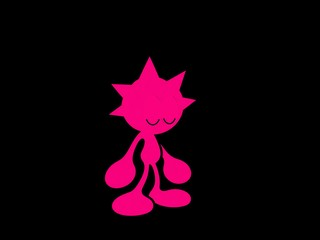
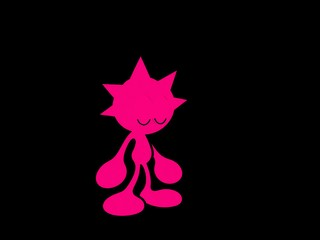
Shift the idle character a touch further left.
Generated with [Devin](https://devin.ai)

Changed region(s): [[0.2812, 0.2333, 0.625, 0.9042]]

diff --git a/friend/gizmo_friend/static/oddity-device.css b/friend/gizmo_friend/static/oddity-device.css
@@ -18,7 +18,7 @@ main{padding:0 16px}.simulator{width:min(650px,100%,calc((100svh - 180px)*1145/1
 .device-talk:active{cursor:grabbing}.device-talk:focus-visible{outline:2px solid #ffb5da;outline-offset:4px}
 .device-talk:before{content:'';position:absolute;inset:-10% -55% -10% -90%}
 .device-up:before,.device-down:before,.device-select:before{content:'';position:absolute;inset:0 -12px 0 -3px}
-.device .friend{position:absolute;left:31%;top:30%;width:34%;height:50%;display:grid;place-items:center;pointer-events:none}.device .friend img{height:100%;width:auto;object-fit:contain}
+.device .friend{position:absolute;left:27%;top:30%;width:34%;height:50%;display:grid;place-items:center;pointer-events:none}.device .friend img{height:100%;width:auto;object-fit:contain}
 .device .caption,.device .stage:not(.has-scene) .caption{font-size:3.6cqw;bottom:10%;left:8%;right:8%;line-height:1.25;max-height:34%}
 .device .listening,.device .stage-top,.device .stage-bottom{display:none}
 .device .play-blocked{font-size:3.2cqw;padding:2cqw 2.8cqw}

diff --git a/friend/gizmo_friend/static/oddity.html b/friend/gizmo_friend/static/oddity.html
@@ -7,7 +7,7 @@
   <link rel="icon" href="data:,">
   <link rel="stylesheet" href="/static/oddity-boot.css?v=gate14">
   <link rel="stylesheet" href="/static/oddity.css">
-  <link rel="stylesheet" href="/static/oddity-device.css?v=gate41">
+  <link rel="stylesheet" href="/static/oddity-device.css?v=gate42">
   <link rel="stylesheet" href="/static/oddity-experience.css">
   <link rel="preload" as="image" href="/static/device-reference-ptt-pressed.png">
   <link rel="preload" as="image" href="/static/oddity-character-half.png?v=char2">

diff --git a/body/assets/export_bundle.py b/body/assets/export_bundle.py
@@ -158,7 +158,7 @@ def home_base(source: Path, size: tuple[int, int]) -> Image.Image:
     box = (max(1, round(width * 0.58)), max(1, round(height * 0.72)))
     character.thumbnail(box, Image.Resampling.LANCZOS)
     canvas = Image.new("RGBA", size, (0, 0, 0, 255))
-    x = (width - character.width) // 2 - round(width * 0.03)
+    x = (width - character.width) // 2 - round(width * 0.06)
     y = round((height - character.height) / 2 + height * 0.05)
     canvas.alpha_composite(character, (x, y))
     return canvas
